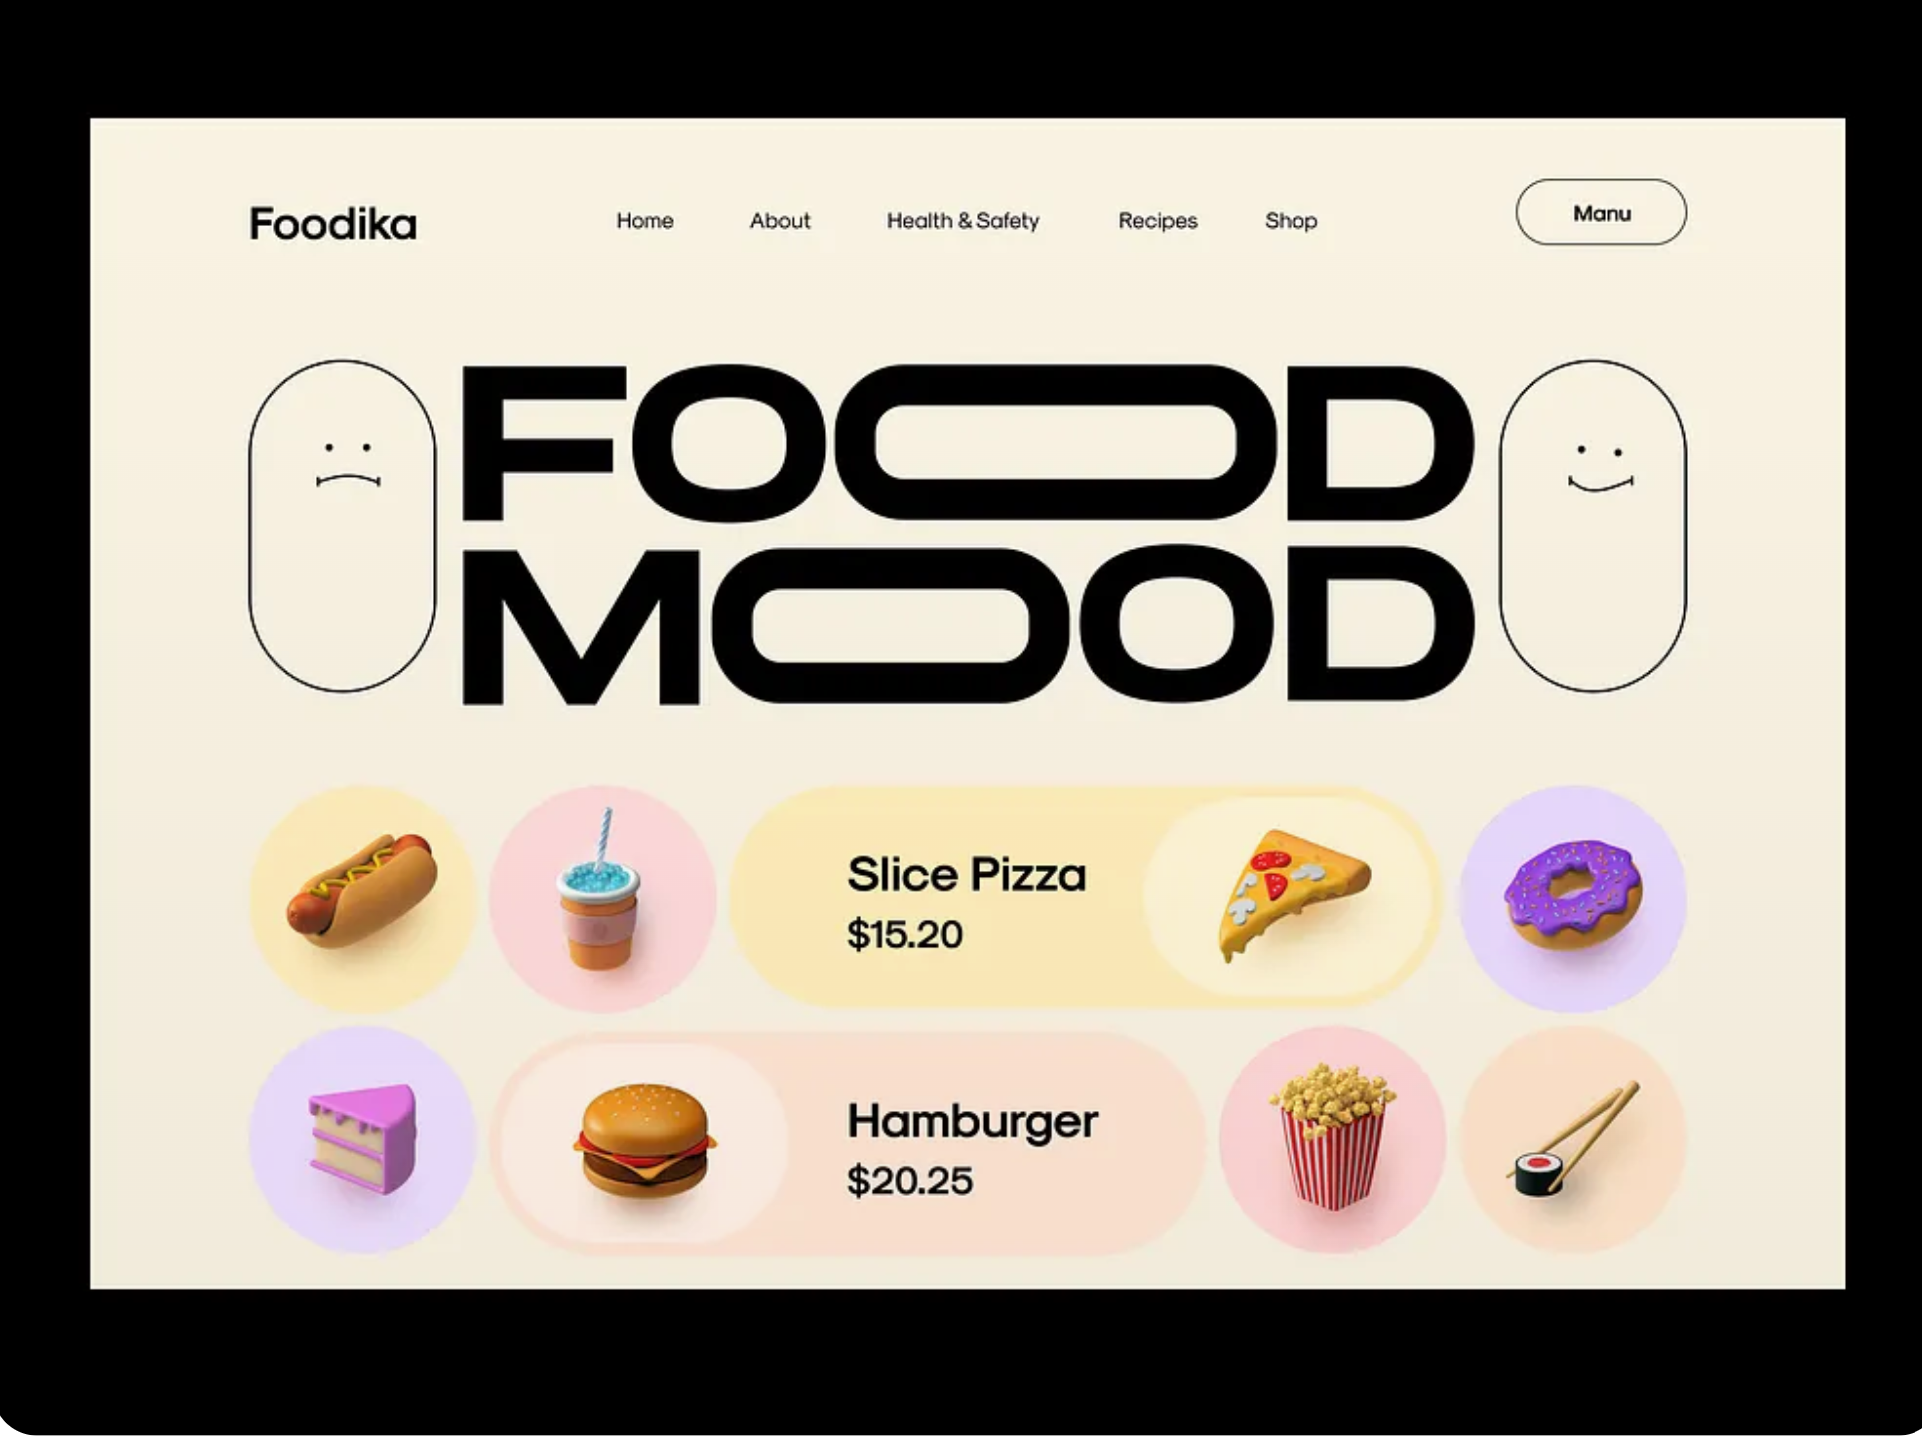
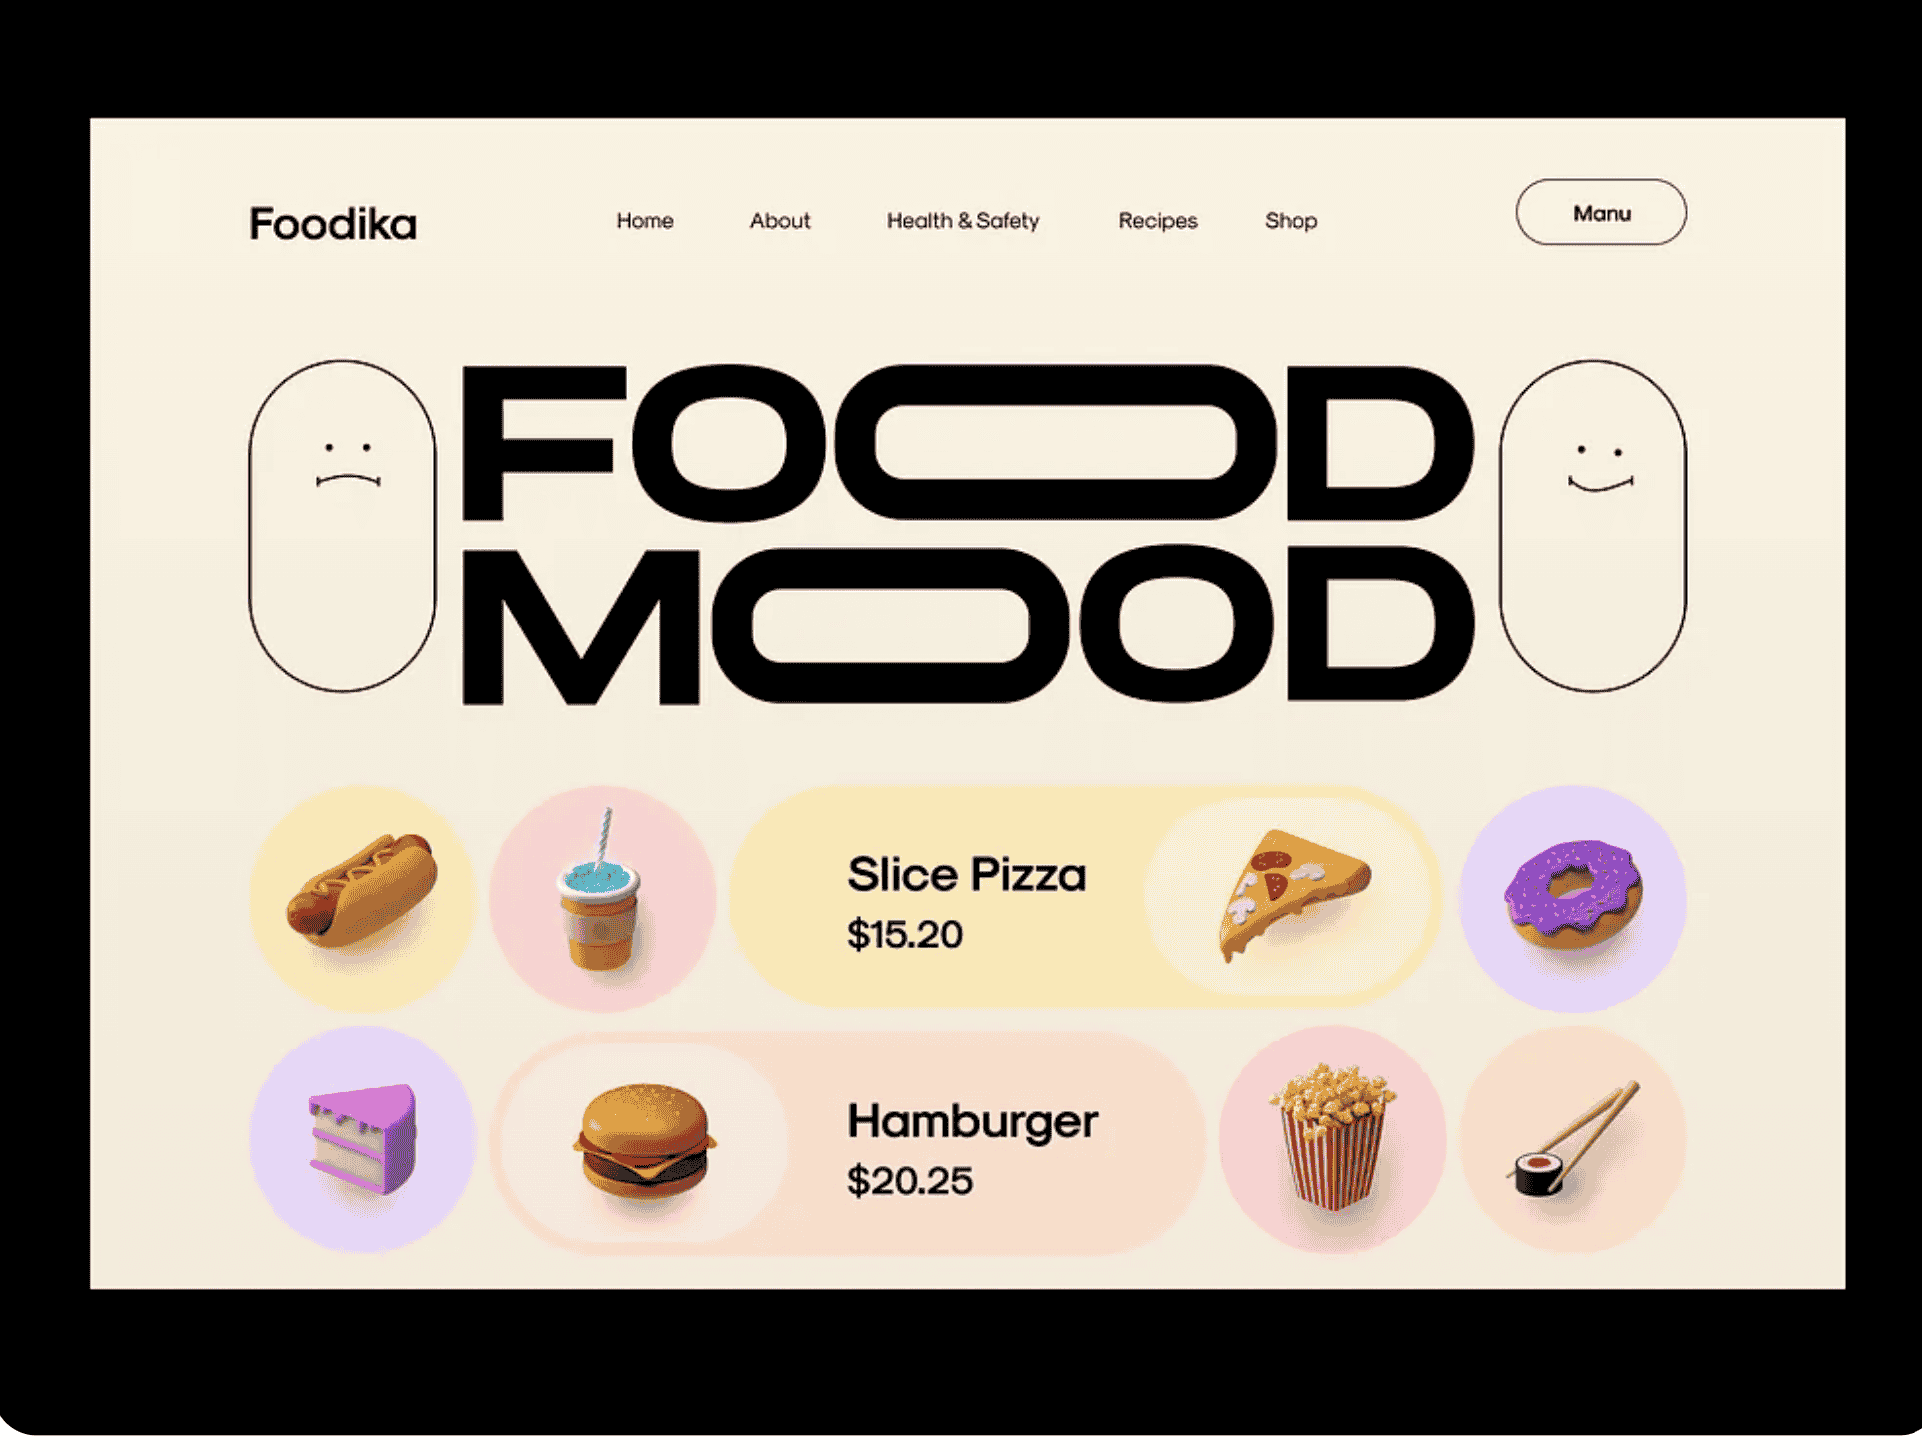
optimize images load speed and heading color changes

diff --git a/src/components/Contact.tsx b/src/components/Contact.tsx
@@ -46,8 +46,8 @@ export const Contact = () => {
     {
       icon: Mail,
       title: 'Email',
-      value: 'hppavilion120000@gmail.com',
-      link: 'mailto:hppavilion120000@gmail.com',
+      value: 'novaenterprisescontact@gmail.com',
+      link: 'mailto:novaenterprisescontact@gmail.com',
     },
     {
       icon: Phone,
@@ -67,7 +67,7 @@ export const Contact = () => {
     <section id="contact" className="py-20">
       <div className="container mx-auto px-6">
         <div className="text-center mb-16">
-          <h2 className="text-4xl md:text-5xl font-bold gradient-text mb-4">Get In Touch</h2>
+          <h2 className="text-4xl md:text-5xl font-bold mb-4 text-white">Get In Touch</h2>
           <p className="text-lg text-muted-foreground max-w-2xl mx-auto">
             Have a project in mind? Let's work together to bring your ideas to life
           </p>

diff --git a/src/components/Navigation.tsx b/src/components/Navigation.tsx
@@ -32,14 +32,13 @@ export const Navigation = () => {
 
   return (
     <nav
-      className={`fixed top-0 left-0 right-0 z-50 transition-all duration-300 ${
-        isScrolled ? 'bg-background/80 backdrop-blur-lg border-b border-border' : 'bg-transparent'
-      }`}
+      className={`fixed top-0 left-0 right-0 z-50 transition-all duration-300 ${isScrolled ? 'bg-background/80 backdrop-blur-lg border-b border-border' : 'bg-transparent'
+        }`}
     >
       <div className="container mx-auto px-6 py-4">
         <div className="flex items-center justify-between">
           <a href="#home" className="text-2xl font-bold gradient-text" onClick={(e) => scrollToSection(e, '#home')}>
-            Portfolio
+            Nova EnterPrises
           </a>
 
           {/* Desktop Navigation */}

diff --git a/src/components/Hero.tsx b/src/components/Hero.tsx
@@ -91,7 +91,7 @@ export const Hero = () => {
                 <Linkedin size={28} />
               </a>
               <a
-                href="mailto:hppavilion120000@gmail.com"
+                href="mailto:novaenterprisescontact@gmail.com"
                 className="text-foreground/60 hover:text-primary transition-colors duration-200"
                 aria-label="Email"
               >

diff --git a/src/components/Footer.tsx b/src/components/Footer.tsx
@@ -31,7 +31,7 @@ export const Footer = () => {
               <Linkedin size={20} />
             </a>
             <a
-              href="mailto:hppavilion120000@gmail.com"
+              href="mailto:novaenterprisescontact@gmail.com"
               className="text-muted-foreground hover:text-primary transition-colors duration-200"
               aria-label="Email"
             >
